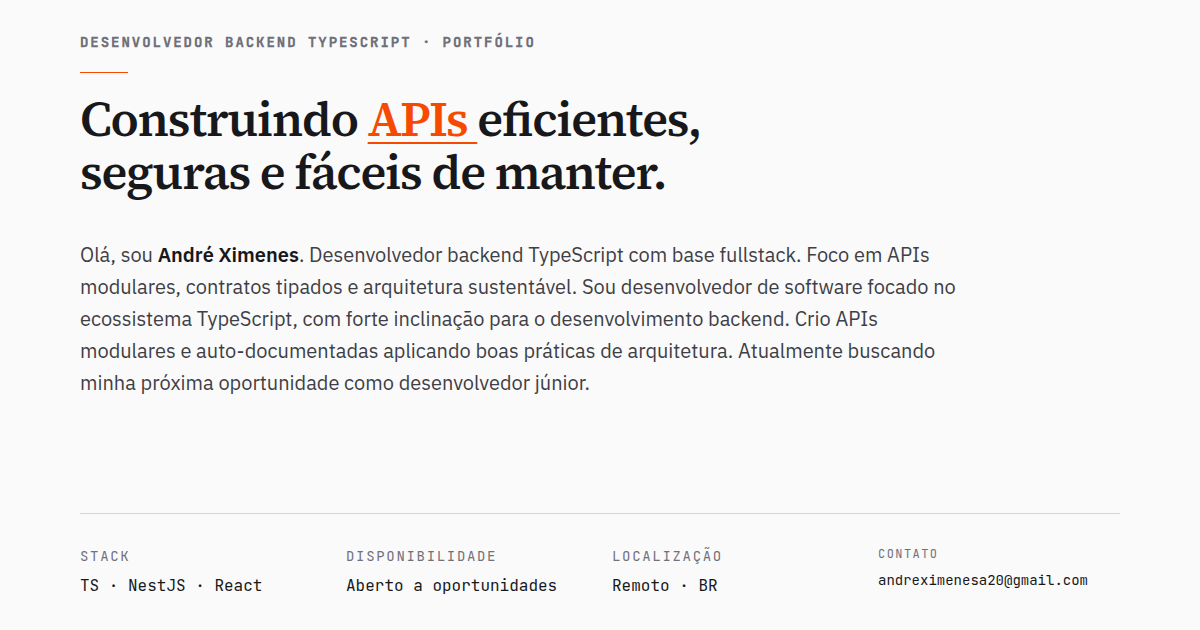
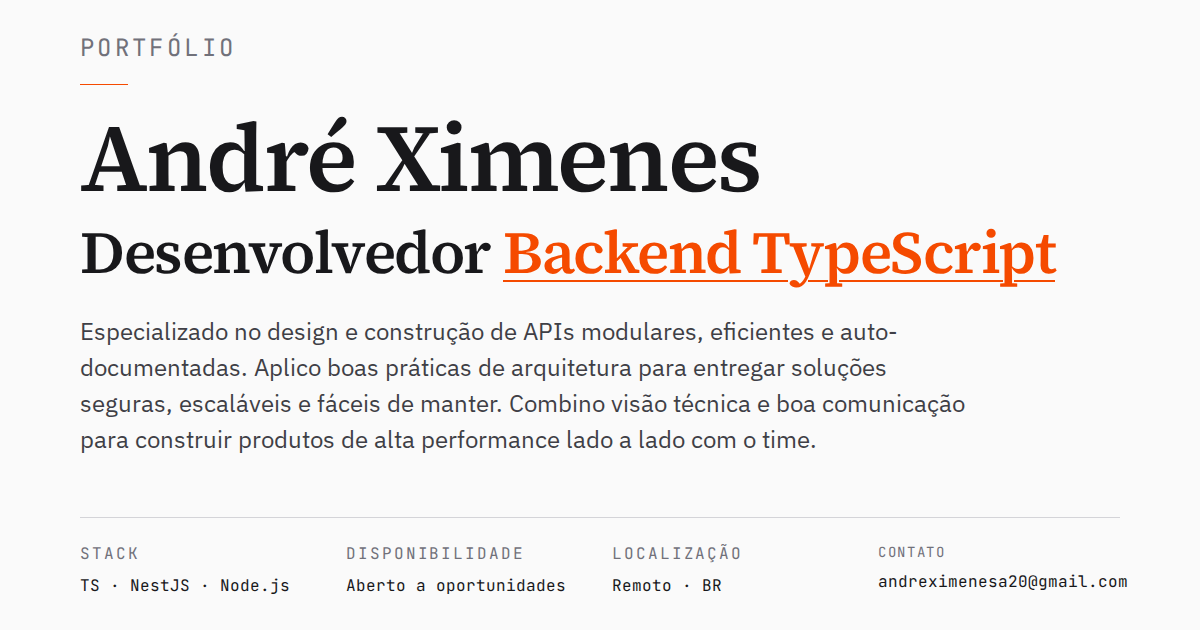
feat(og): adicionar imagem social localizada em pt e en
Centraliza o copy da OG nos locales, gera as duas imagens e aponta a versão em inglês nas páginas EN.

diff --git a/devtools/generate-og.ts b/devtools/generate-og.ts
@@ -3,22 +3,26 @@ import { closePreviewServer, startPreviewServer } from "./lib/server.js";
 
 try {
 	const localUrl = await startPreviewServer();
-	const ogUrl = `${localUrl}/og-image`;
-	const outputPath = "public/og-image.png";
+	const ogsToGenerate = [
+		{ url: `${localUrl}/og-image`, outputPath: "public/og-image.png" },
+		{ url: `${localUrl}/en/og-image`, outputPath: "public/og-image-en.png" },
+	];
 
 	const { browser } = await startBrowser();
 
-	console.log("Abrindo pagina (1200x630)...");
 	const page = await browser.newPage({
 		viewport: { width: 1200, height: 630 },
 	});
 
-	await page.goto(ogUrl);
-	await page.waitForSelector("h1");
+	for (const { url, outputPath } of ogsToGenerate) {
+		console.log(`Abrindo ${url} (1200x630)...`);
+		await page.goto(url);
+		await page.waitForSelector("h1");
 
-	console.log(`Capturando screenshot em ${outputPath}...`);
-	await page.screenshot({ path: outputPath });
-	console.log(`OG image salva em ${outputPath}`);
+		console.log(`Capturando screenshot em ${outputPath}...`);
+		await page.screenshot({ path: outputPath });
+		console.log(`OG image salva em ${outputPath}`);
+	}
 } catch (error) {
 	console.log(error);
 } finally {

diff --git a/src/content.config.ts b/src/content.config.ts
@@ -14,6 +14,12 @@ const portfolioSchema = z.object({
 		description: z.string(),
 		ogImageAlt: z.string(),
 	}),
+	ogImage: z.object({
+		eyebrow: z.string(),
+		titlePrefix: z.string(),
+		titleAccent: z.string(),
+		description: z.string(),
+	}),
 	person: z.object({
 		fullName: z.string(),
 		jobTitle: z.string(),

diff --git a/src/lib/content.ts b/src/lib/content.ts
@@ -21,6 +21,7 @@ export async function getSite(locale: Locale) {
 		blogUrl: portfolio.blogUrl,
 		resumePdfUrl: portfolio.resumePdfUrl,
 		seo: portfolio.seo,
+		ogImage: portfolio.ogImage,
 		person: portfolio.person,
 		hero: portfolio.hero,
 		about: portfolio.about,

diff --git a/src/locales/pt/portfolio.md b/src/locales/pt/portfolio.md
@@ -14,6 +14,17 @@ seo:
     Projetos em produção e código aberto.
   ogImageAlt: "André Ximenes, desenvolvedor backend TypeScript especializado em APIs"
 
+ogImage:
+  eyebrow: "Portfólio"
+  titlePrefix: "Desenvolvedor"
+  titleAccent: "Backend TypeScript"
+  description: >-
+    Especializado no design e construção de APIs modulares, eficientes e
+    auto-documentadas. Aplico boas práticas de arquitetura para entregar
+    soluções seguras, escaláveis e fáceis de manter. Combino visão
+    técnica e boa comunicação para construir produtos de alta
+    performance lado a lado com o time.
+
 person:
   fullName: "André Ricardo Ximenes Aragão"
   jobTitle: "Desenvolvedor Backend TypeScript"

diff --git a/src/locales/en/portfolio.md b/src/locales/en/portfolio.md
@@ -14,6 +14,17 @@ seo:
     Production projects and open source.
   ogImageAlt: "André Ximenes, TypeScript backend developer specializing in APIs"
 
+ogImage:
+  eyebrow: "Portfolio"
+  titlePrefix: "TypeScript"
+  titleAccent: "Backend Developer"
+  description: >-
+    Specialized in designing and building modular, efficient, and
+    self-documented APIs. I apply solid architectural practices to
+    deliver secure, scalable, and maintainable solutions. I combine
+    technical vision and clear communication to build high-performance
+    products alongside the team.
+
 person:
   fullName: "André Ricardo Ximenes Aragão"
   jobTitle: "TypeScript Backend Developer"
